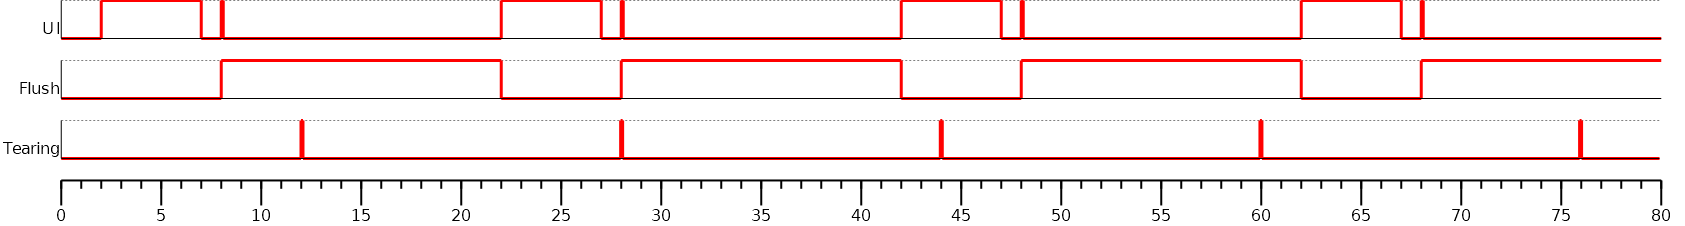
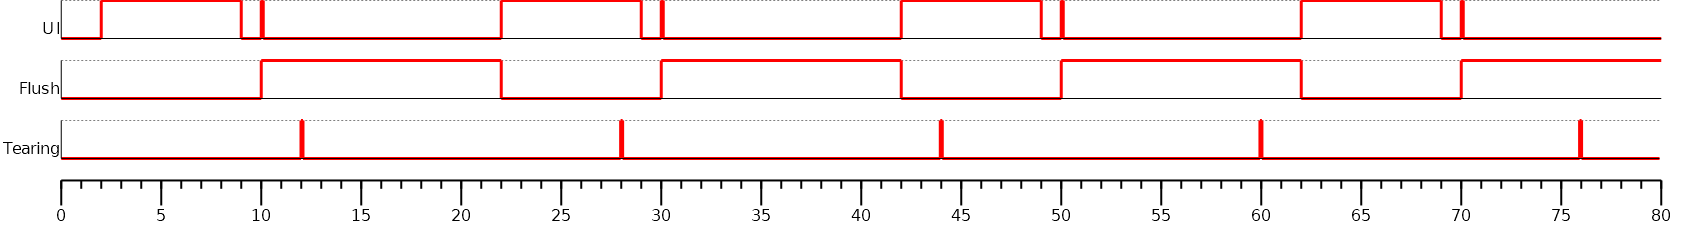
fix tearing section

diff --git a/PlatformDeveloperGuide/uiDisplay.rst b/PlatformDeveloperGuide/uiDisplay.rst
@@ -584,22 +584,22 @@ Captions definition:
 Tearing Signal
 --------------
 
-In this example, the drawing time is 7ms, the time between end of drawing and call to ``Display.flush()`` is 1ms and the flush time is 6ms. So the expected rendering frequency is 7 + 1 + 6 = 14ms. Flush starts just after the call to ``Display.flush()`` and the next drawing starts just after the end of flush. Tearing signal is not taken in consideration. By consequence the LCD content is refreshed during the LCD refresh time. The content can be corrupted: flickering, glitches etc. The rendering frequency is faster than LCD refresh rate.
+In this example, the drawing time is 7ms, the time between end of drawing and call to ``Display.flush()`` is 1ms and the flush time is 6ms. So the expected rendering frequency is 7 + 1 + 6 = 14ms (71.4Hz). Flush starts just after the call to ``Display.flush()`` and the next drawing starts just after the end of flush. Tearing signal is not taken in consideration. By consequence the LCD content is refreshed during the LCD refresh time. The content can be corrupted: flickering, glitches etc. The rendering frequency is faster than LCD refresh rate.
 
 .. figure:: images/uiDisplaySync01.*
    :width: 100%
 
-In this example, the times are identical to previous example. The tearing signal is used to start the flush in respecting the LCD refreshing time. The rendering frequency becomes smaller: it is cadenced on the tearing signal, every 16ms. During 2ms, the CPU can schedule other tasks or goes in idle mode. The rendering frequency is equal to LCD refresh rate.
+In this example, the times are identical to previous example. The tearing signal is used to start the flush in respecting the LCD refreshing time. The rendering frequency becomes smaller: it is cadenced on the tearing signal, every 16ms (62.5Hz). During 2ms, the CPU can schedule other tasks or goes in idle mode. The rendering frequency is equal to LCD refresh rate.
 
 .. figure:: images/uiDisplaySync02.*
    :width: 100%
 
-In this example, the drawing time is 14ms, the time between end of drawing and call to ``Display.flush()`` is 1ms and the flush time is 6ms. So the expected rendering frequency is 14 + 1 + 6 = 21ms. Flush starts just after the call to ``Display.flush()`` and the next drawing starts just after the end of flush. Tearing signal is not taken in consideration. The rendering frequency is higher than LCD refresh rate.
+In this example, the drawing time is 14ms, the time between end of drawing and call to ``Display.flush()`` is 1ms and the flush time is 6ms. So the expected rendering frequency is 14 + 1 + 6 = 21ms (47.6Hz). Flush starts just after the call to ``Display.flush()`` and the next drawing starts just after the end of flush. Tearing signal is not taken in consideration. 
 
 .. figure:: images/uiDisplaySync03.*
    :width: 100%
  
-In this example, the times are identical to previous example. The tearing signal is used to start the flush in respecting the LCD refreshing time. The drawing time + flush time is higher than LCD tearing signal period. So the flush cannot start at every tearing peak: it is cadenced on two tearing signals, every 32ms. During 11ms, the CPU can schedule other tasks or goes in idle mode. The rendering frequency is equal to LCD refresh rate divided by two.
+In this example, the times are identical to previous example. The tearing signal is used to start the flush in respecting the LCD refreshing time. The drawing time + flush time is higher than LCD tearing signal period. So the flush cannot start at every tearing peak: it is cadenced on two tearing signals, every 32ms (31.2Hz). During 11ms, the CPU can schedule other tasks or goes in idle mode. The rendering frequency is equal to LCD refresh rate divided by two.
 
 .. figure:: images/uiDisplaySync04.*
    :width: 100%
@@ -609,20 +609,50 @@ Additional Buffer
 
 Some devices take a lot of time to send back buffer content to display buffer. The following examples demonstrate the consequence on rendering frequency. The use of an additional buffer optimizes this frequency, however it uses a lot of RAM memory.
 
-In this example, the drawing time is 5ms, the time between end of drawing and call to ``Display.flush()`` is 1ms and the flush time is 14ms. So the expected rendering frequency is 5 + 1 + 14 = 20ms. Flush starts just after the call to ``Display.flush()`` and the next drawing starts just after the end of flush. Tearing signal is not taken in consideration. The rendering frequency is cadenced on drawing time + flush time.
+In this example, the drawing time is 7ms, the time between end of drawing and call to ``Display.flush()`` is 1ms and the flush time is 12ms. So the expected rendering frequency is 7 + 1 + 12 = 20ms (50Hz). Flush starts just after the call to ``Display.flush()`` and the next drawing starts just after the end of flush. Tearing signal is not taken in consideration. The rendering frequency is cadenced on drawing time + flush time.
 
 .. figure:: images/uiDisplaySync05.*
    :width: 100%
 
-As mentionned upper, the idea is to use two back buffers. First, UI task is drawing in back buffer ``A``. Just after the call to ``Display.flush()``, the flush can start. At same moment, the content of back buffer ``A`` is copied in back buffer ``B``. During the flush time (copy of back buffer ``A`` to display buffer), the back buffer ``B`` can be used by UI task to continue the drawings. When drawings in back buffer ``B`` are done (and after call to ``Display.flush()``), the DMA copy of back buffer ``B`` to back buffer ``A`` cannot start: the copy can only start when the flush is fully done because the flush is using the back buffer ``A``. As soon as the flush is done, a new flush (and DMA copy) can start. The rendering frequency is cadenced on flush time.
+As mentionned upper, the idea is to use two back buffers. First, UI task is drawing in back buffer ``A``. Just after the call to ``Display.flush()``, the flush can start. At same moment, the content of back buffer ``A`` is copied in back buffer ``B`` (use a DMA, copy time is 1ms). During the flush time (copy of back buffer ``A`` to display buffer), the back buffer ``B`` can be used by UI task to continue the drawings. When drawings in back buffer ``B`` are done (and after call to ``Display.flush()``), the DMA copy of back buffer ``B`` to back buffer ``A`` cannot start: the copy can only start when the flush is fully done because the flush is using the back buffer ``A``. As soon as the flush is done, a new flush (and DMA copy) can start. The rendering frequency is cadenced on flush time, ie 12ms (83.3Hz).
 
 .. figure:: images/uiDisplaySync06.*
    :width: 100%
 
-The previous example doesn't take in consideration the LCD tearing signal. However this technique of double back buffers is not efficient when tearing signal is used. The flush cannot start until tearing signal. During this waiting time, DMA copy and next drawing can be done or started. As soon as the drawing is done (and after call to ``Display.flush()``), the UI task has to wait the end of flush (which has started in late). By consequence, the rendering frequency is cadenced on two LCD tearing signals. 
+The previous example doesn't take in consideration the LCD tearing signal. With tearing signal and only one back buffer, the frequency is cadenced on two tearing signals (see previous chapter). With two back buffers, the frequency is now cadenced on only one tearing signal, despite the long flush time. 
 
 .. figure:: images/uiDisplaySync07.*
    :width: 100%
+
+Time Sum-up
+-----------
+
+The following table resumes the previous examples times:
+
+* It consider the LCD frequency is 62.5Hz (16ms). 
+* *Drawing time* is the time let to the application to perform its drawings and call ``Display.flush()``. In our examples, the time between the last drawing and the call to ``Display.flush()`` is 1ms.
+* *FPS* and *CPU load* are calculated from examples times.
+* *Max drawing time* is the maximum time let to the application to perform its drawings, without overlapping next LCD tearing signal (when tearing is enabled). 
+
++----------+-------------+--------------------+------------------+---------------------+-----------+---------------+------------------------+
+|  Tearing |  Nb buffers |  Drawing time (ms) |  Flush time (ms) |  DMA copy time (ms) |  FPS (Hz) |  CPU load (%) |  Max drawing time (ms) |
++==========+=============+====================+==================+=====================+===========+===============+========================+
+|     no   |       1     |         7+1        |         6        |                     |    71.4   |      57.1     |                        |
++----------+-------------+--------------------+------------------+---------------------+-----------+---------------+------------------------+
+|    yes   |       1     |         7+1        |         6        |                     |    62.5   |       50      |            10          |
++----------+-------------+--------------------+------------------+---------------------+-----------+---------------+------------------------+
+|     no   |       1     |         14+1       |         6        |                     |    47.6   |      71.4     |                        |
++----------+-------------+--------------------+------------------+---------------------+-----------+---------------+------------------------+
+|    yes   |       1     |         14+1       |         6        |                     |    31.2   |      46.9     |            20          |
++----------+-------------+--------------------+------------------+---------------------+-----------+---------------+------------------------+
+|     no   |       1     |         7+1        |         12       |                     |     50    |       40      |                        |
++----------+-------------+--------------------+------------------+---------------------+-----------+---------------+------------------------+
+|    yes   |       1     |         7+1        |         12       |                     |    31.2   |       25      |            8           |
++----------+-------------+--------------------+------------------+---------------------+-----------+---------------+------------------------+
+|     no   |       2     |         7+1        |         12       |           1         |    83.3   |      66.7     |                        |
++----------+-------------+--------------------+------------------+---------------------+-----------+---------------+------------------------+
+|    yes   |       2     |         7+1        |         12       |           1         |    62.5   |       50      |            11          |
++----------+-------------+--------------------+------------------+---------------------+-----------+---------------+------------------------+
 
 GPU Synchronization
 ===================
